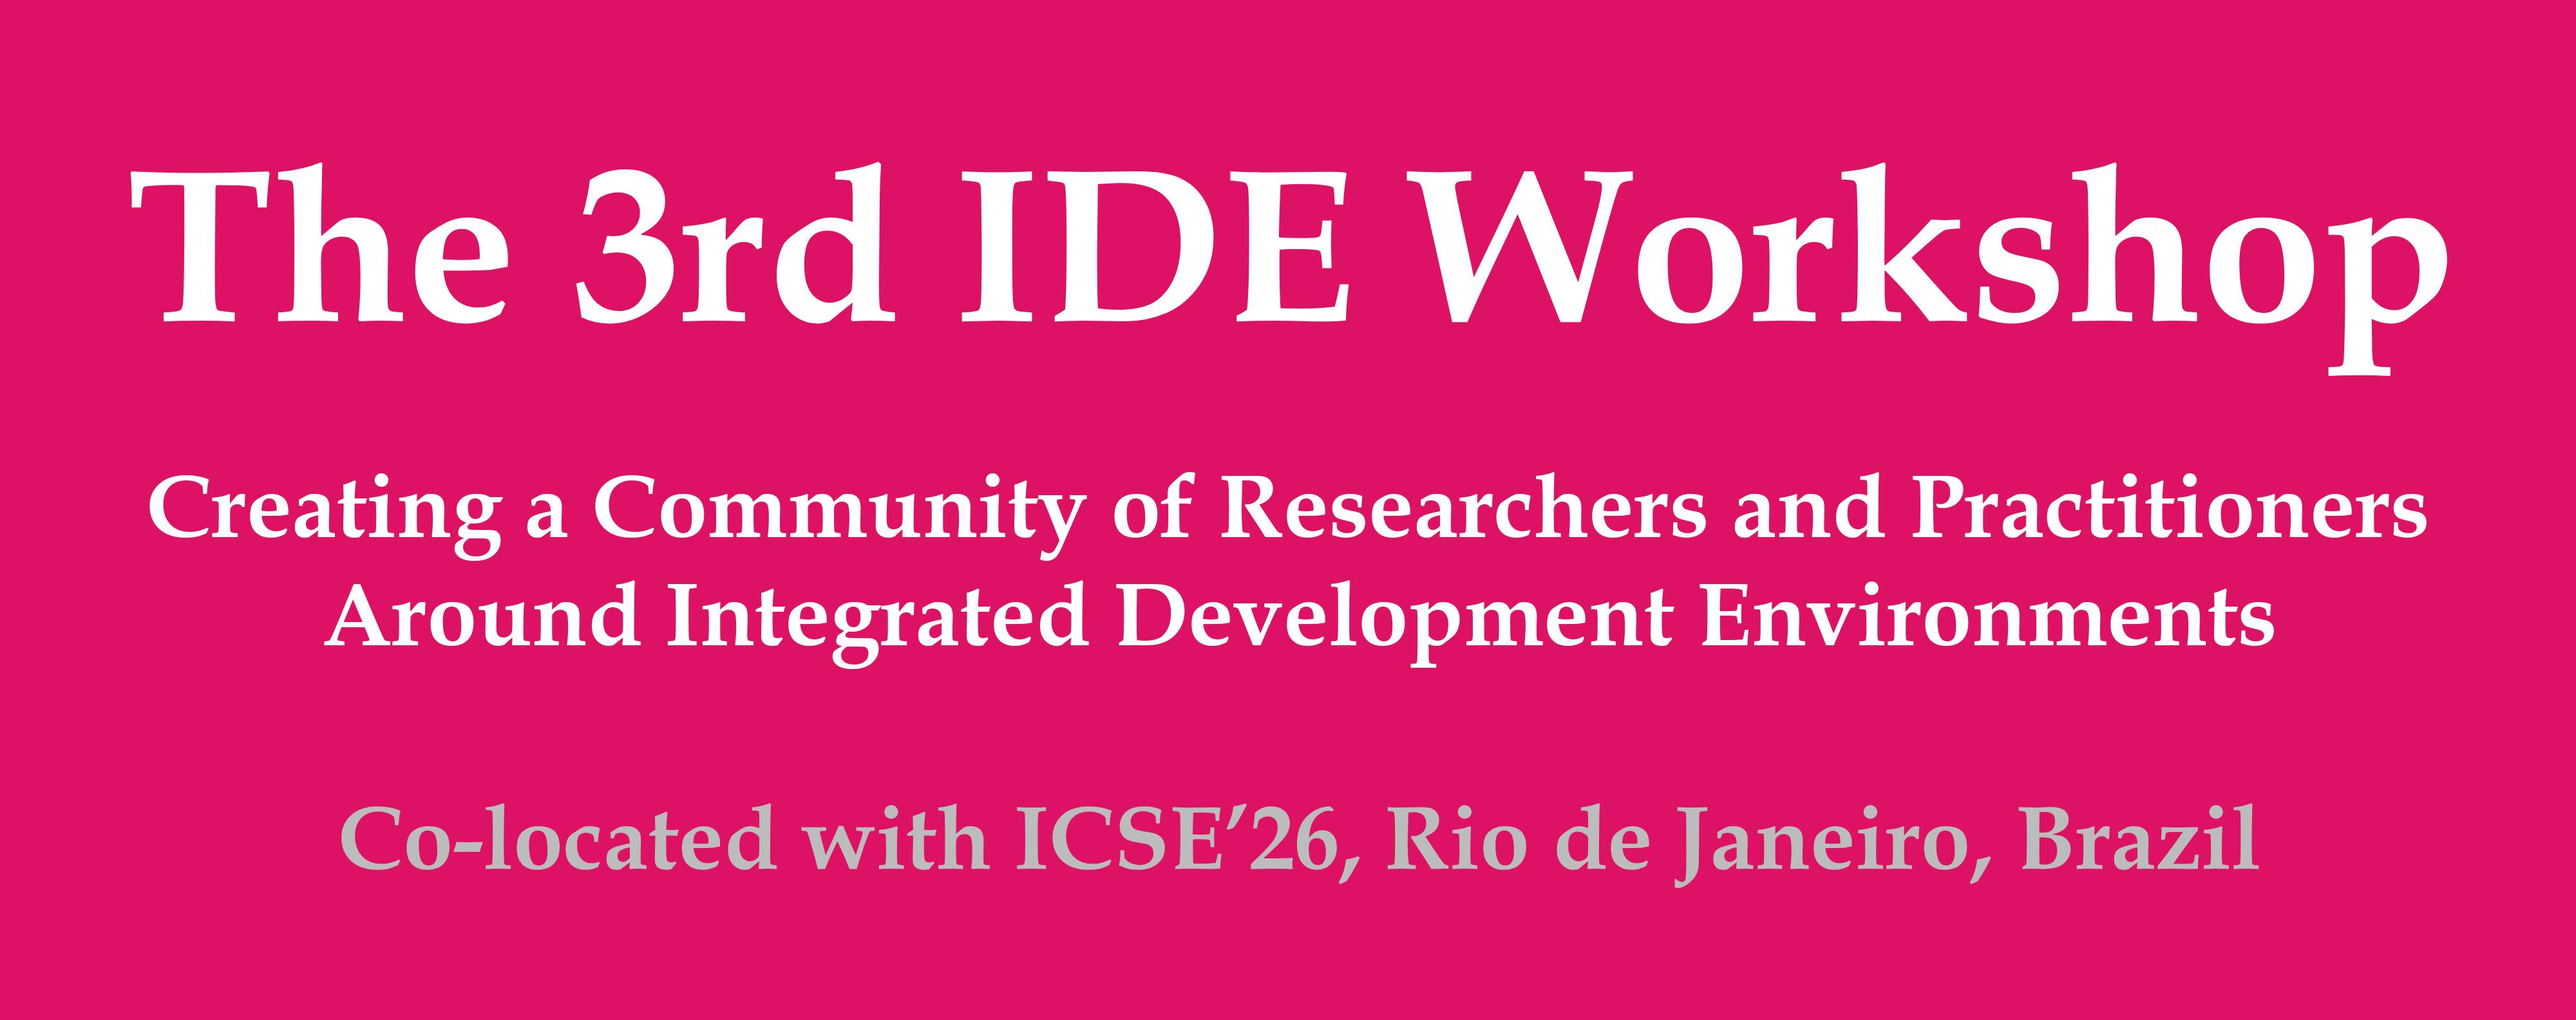
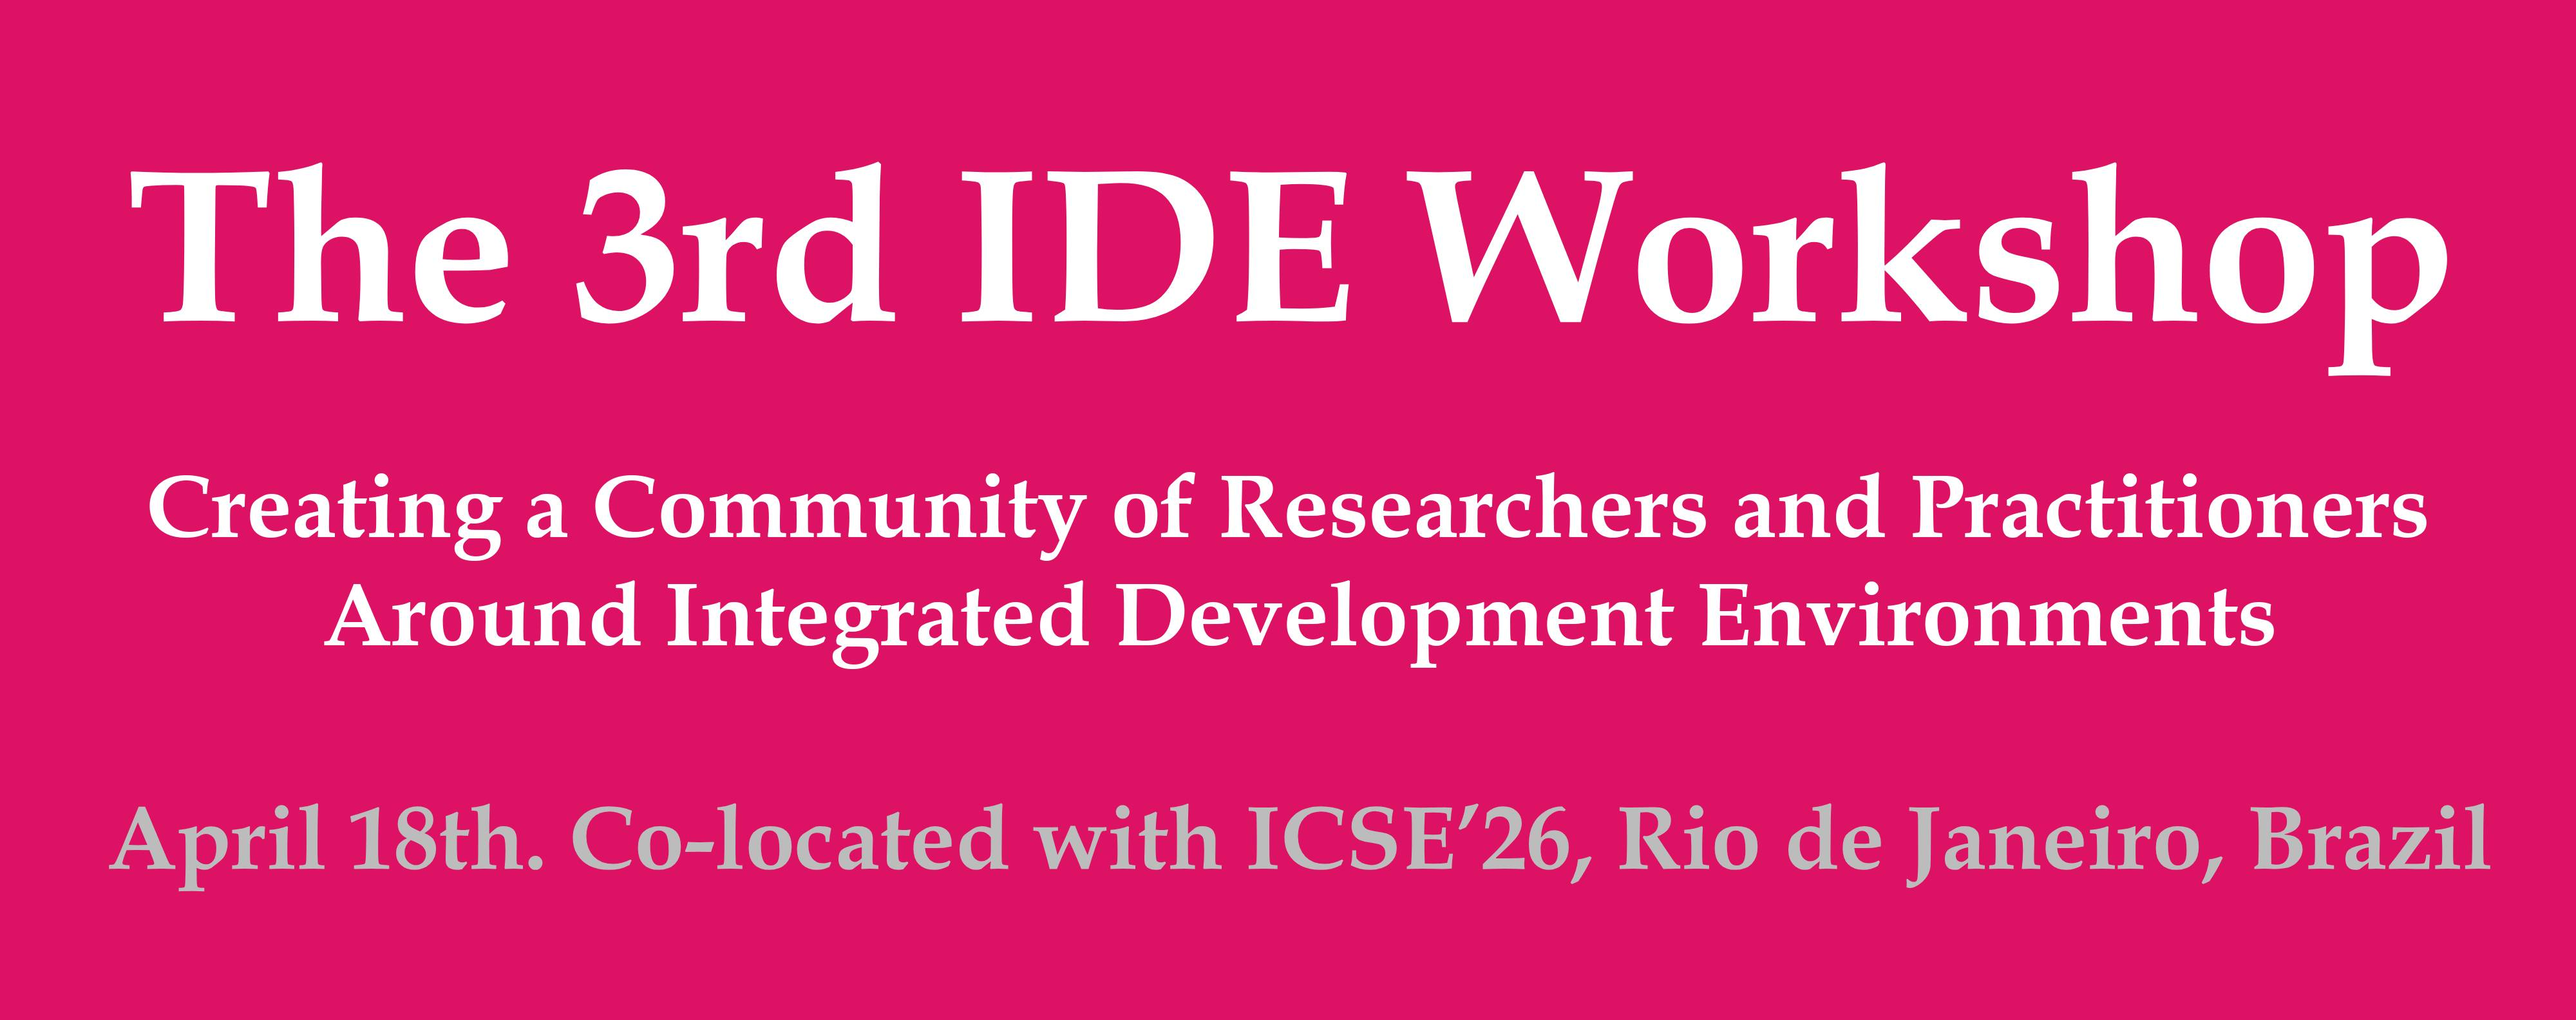
Added workshop date + small updates

Changed region(s): [[0.0312, 0.7734, 0.9688, 0.8662]]

diff --git a/index.md b/index.md
@@ -7,6 +7,7 @@ layout: page
 
 ## News
 
+* **September 4th**: workshop scheduled for **Saturday**, **April 18th**
 * **July 23rd**: [HotCRP](https://icse2026-ide.hotcrp.com/) opened
 * **July 4th**: workshop accepted to ICSE'26!
 * **June 23rd**: workshop proposal sent to ICSE'26
@@ -53,7 +54,7 @@ what it is they look for in research. Let's shape this community together!
 Our target audience includes **both academic researchers and IDE developers from industry**.
 
 **From the research side**, we welcome any contributions that relate to IDEs, in the form of **short 
-research papers** (up to 6 pages, including references) or shorter **extended abstracts** (up to 4 pages, including references, [**free of APC charges**](https://libraries.acm.org/acmopen/article-types)). 
+research papers** (up to 6 pages, including references, can be fewer) or shorter **extended abstracts** (up to 4 pages, including references, [**free of APC charges**](https://libraries.acm.org/acmopen/article-types)). 
 The topics include, but are not limited to:
 
 * The development of plugins, add-ons, and extensions for IDEs.
@@ -101,7 +102,7 @@ The following LaTeX code can be placed at the start of the LaTeX document: `\doc
 
 The IDE workshop employs the **single-blind** review process, _i.e._, you do not need to conceal your identity.
 The workshop accepts:
-* **short research papers** (up to 6 pages, including references) 
+* **short research papers** (up to 6 pages, including references, can be fewer) 
 * **extended abstracts** (up to 4 pages, including references, [**free of APC charges**](https://libraries.acm.org/acmopen/article-types)). 
 
 Purchases of additional pages in the proceedings are not allowed.
@@ -122,7 +123,7 @@ The official publication date affects the deadline for any patent filings relate
 * Papers submission deadline: **October 20th, 2025**
 * Papers acceptance notification:  November 24th, 2025
 * Camera ready deadline: TBA
-* Workshop: TBA
+* Workshop: April 18th, 2026
 
 ## Organizing committee
 
